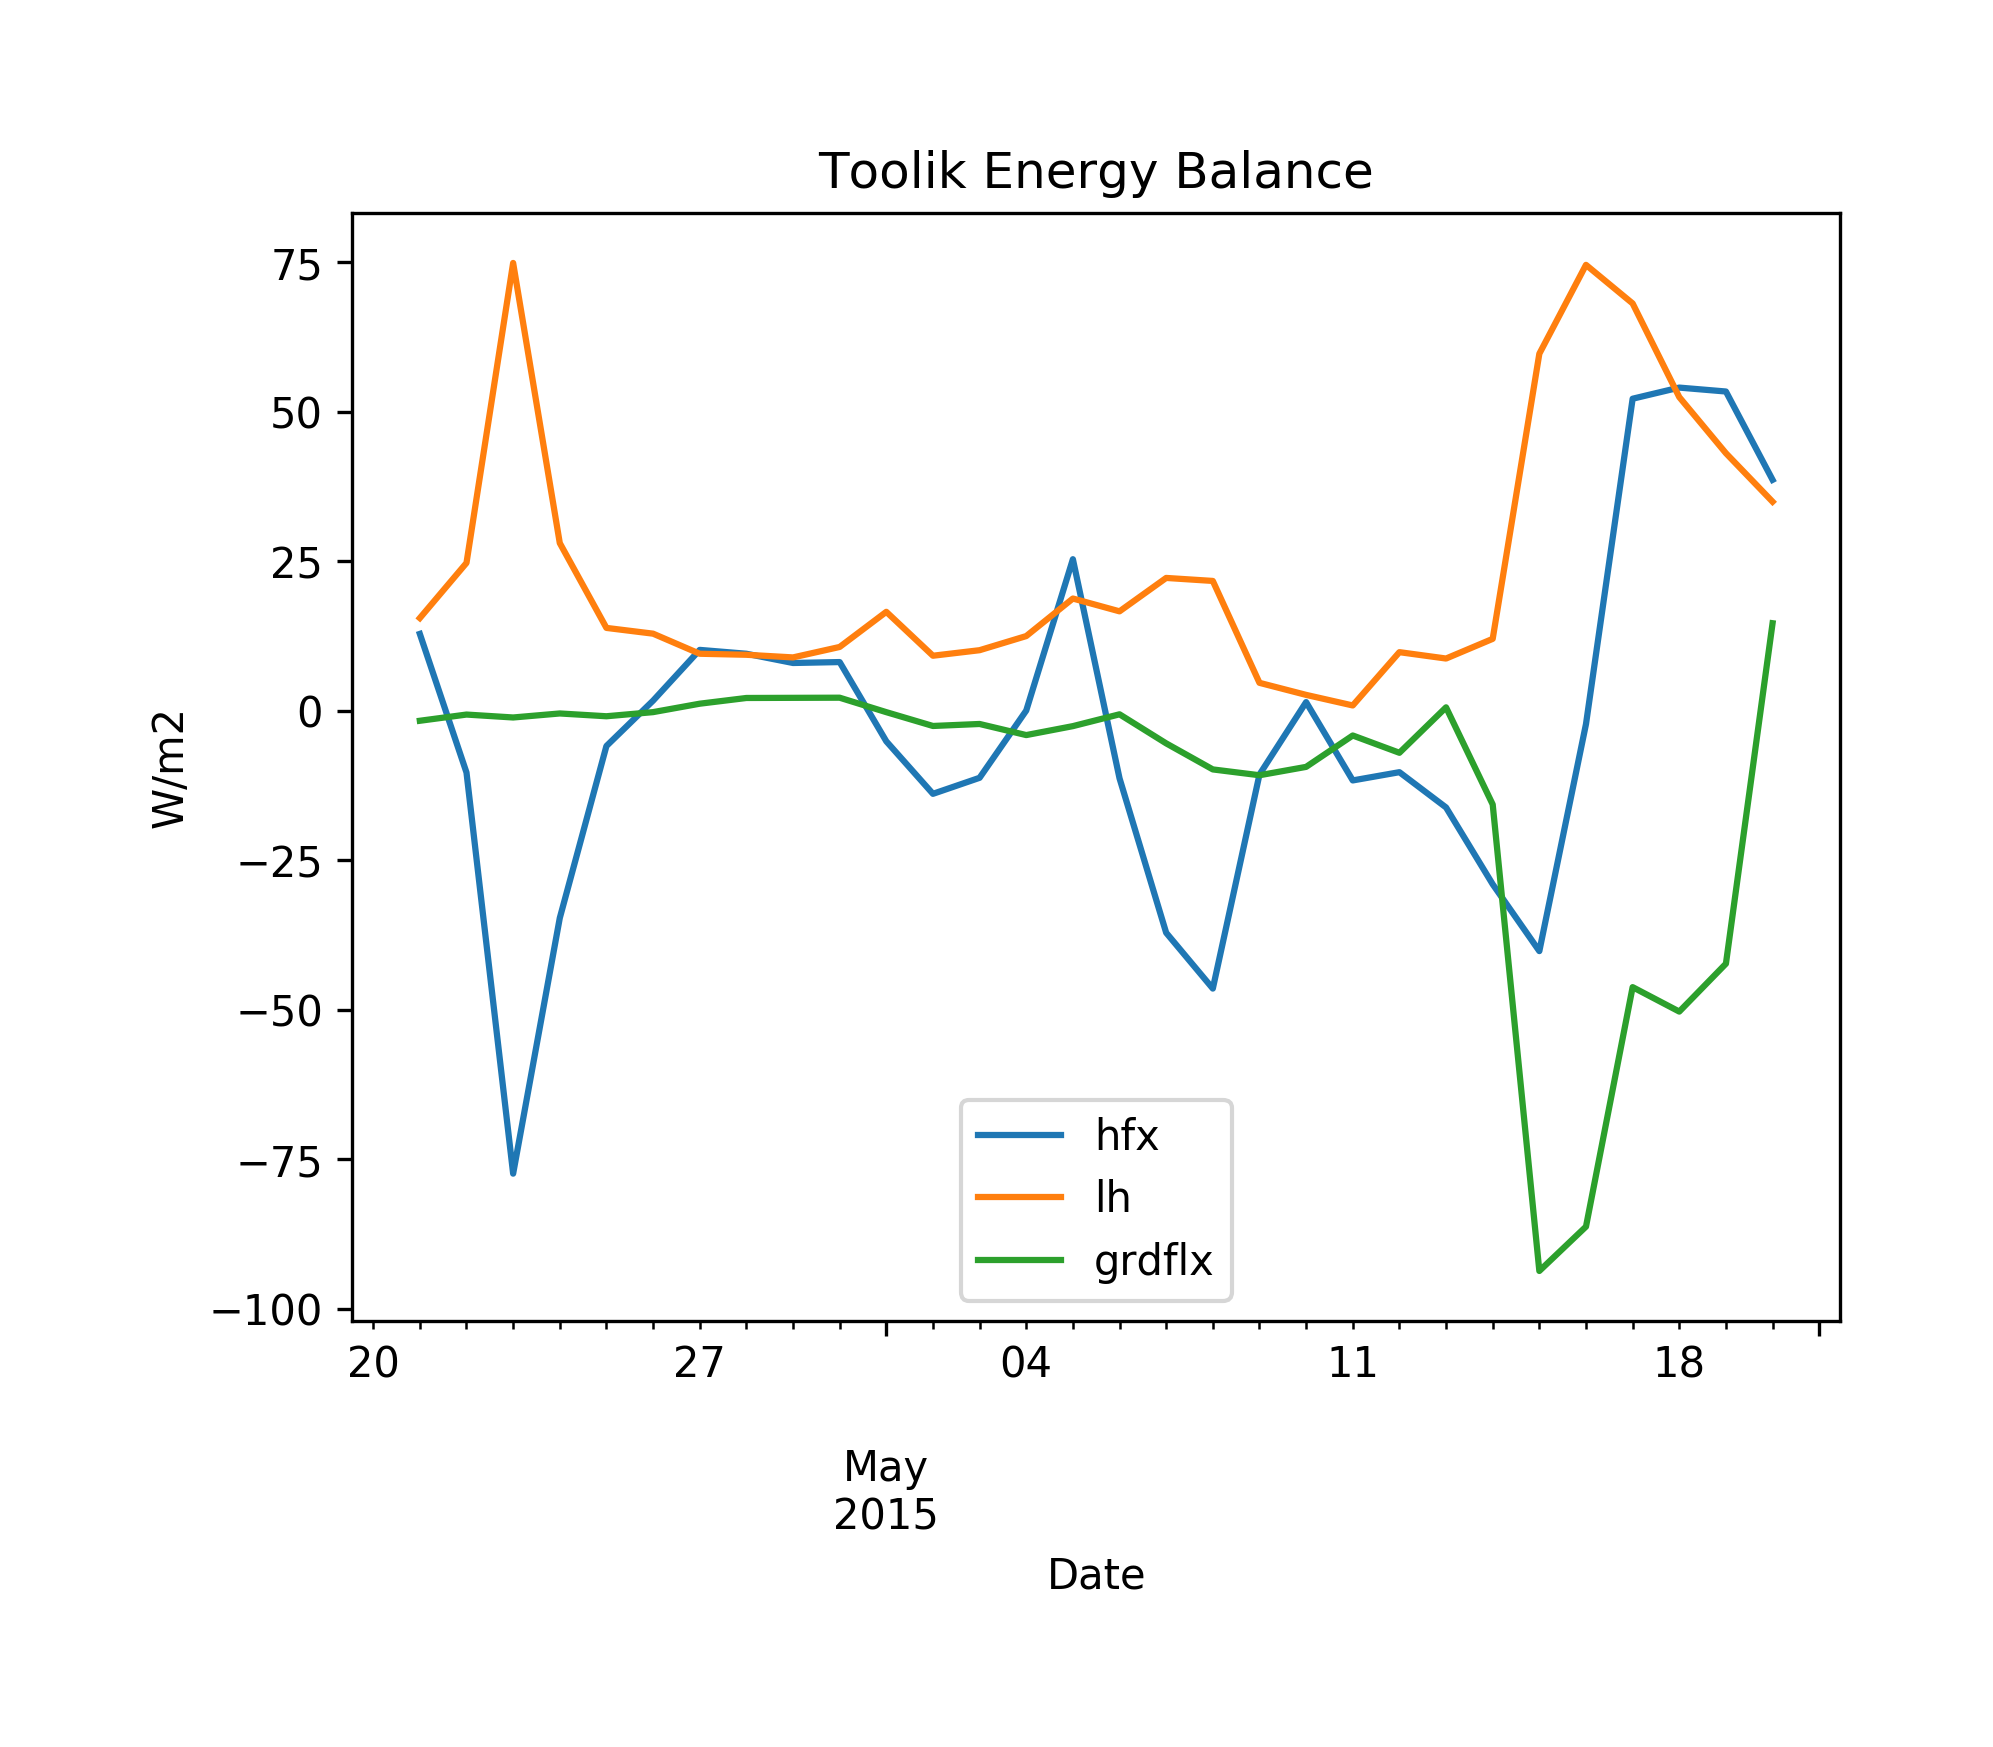
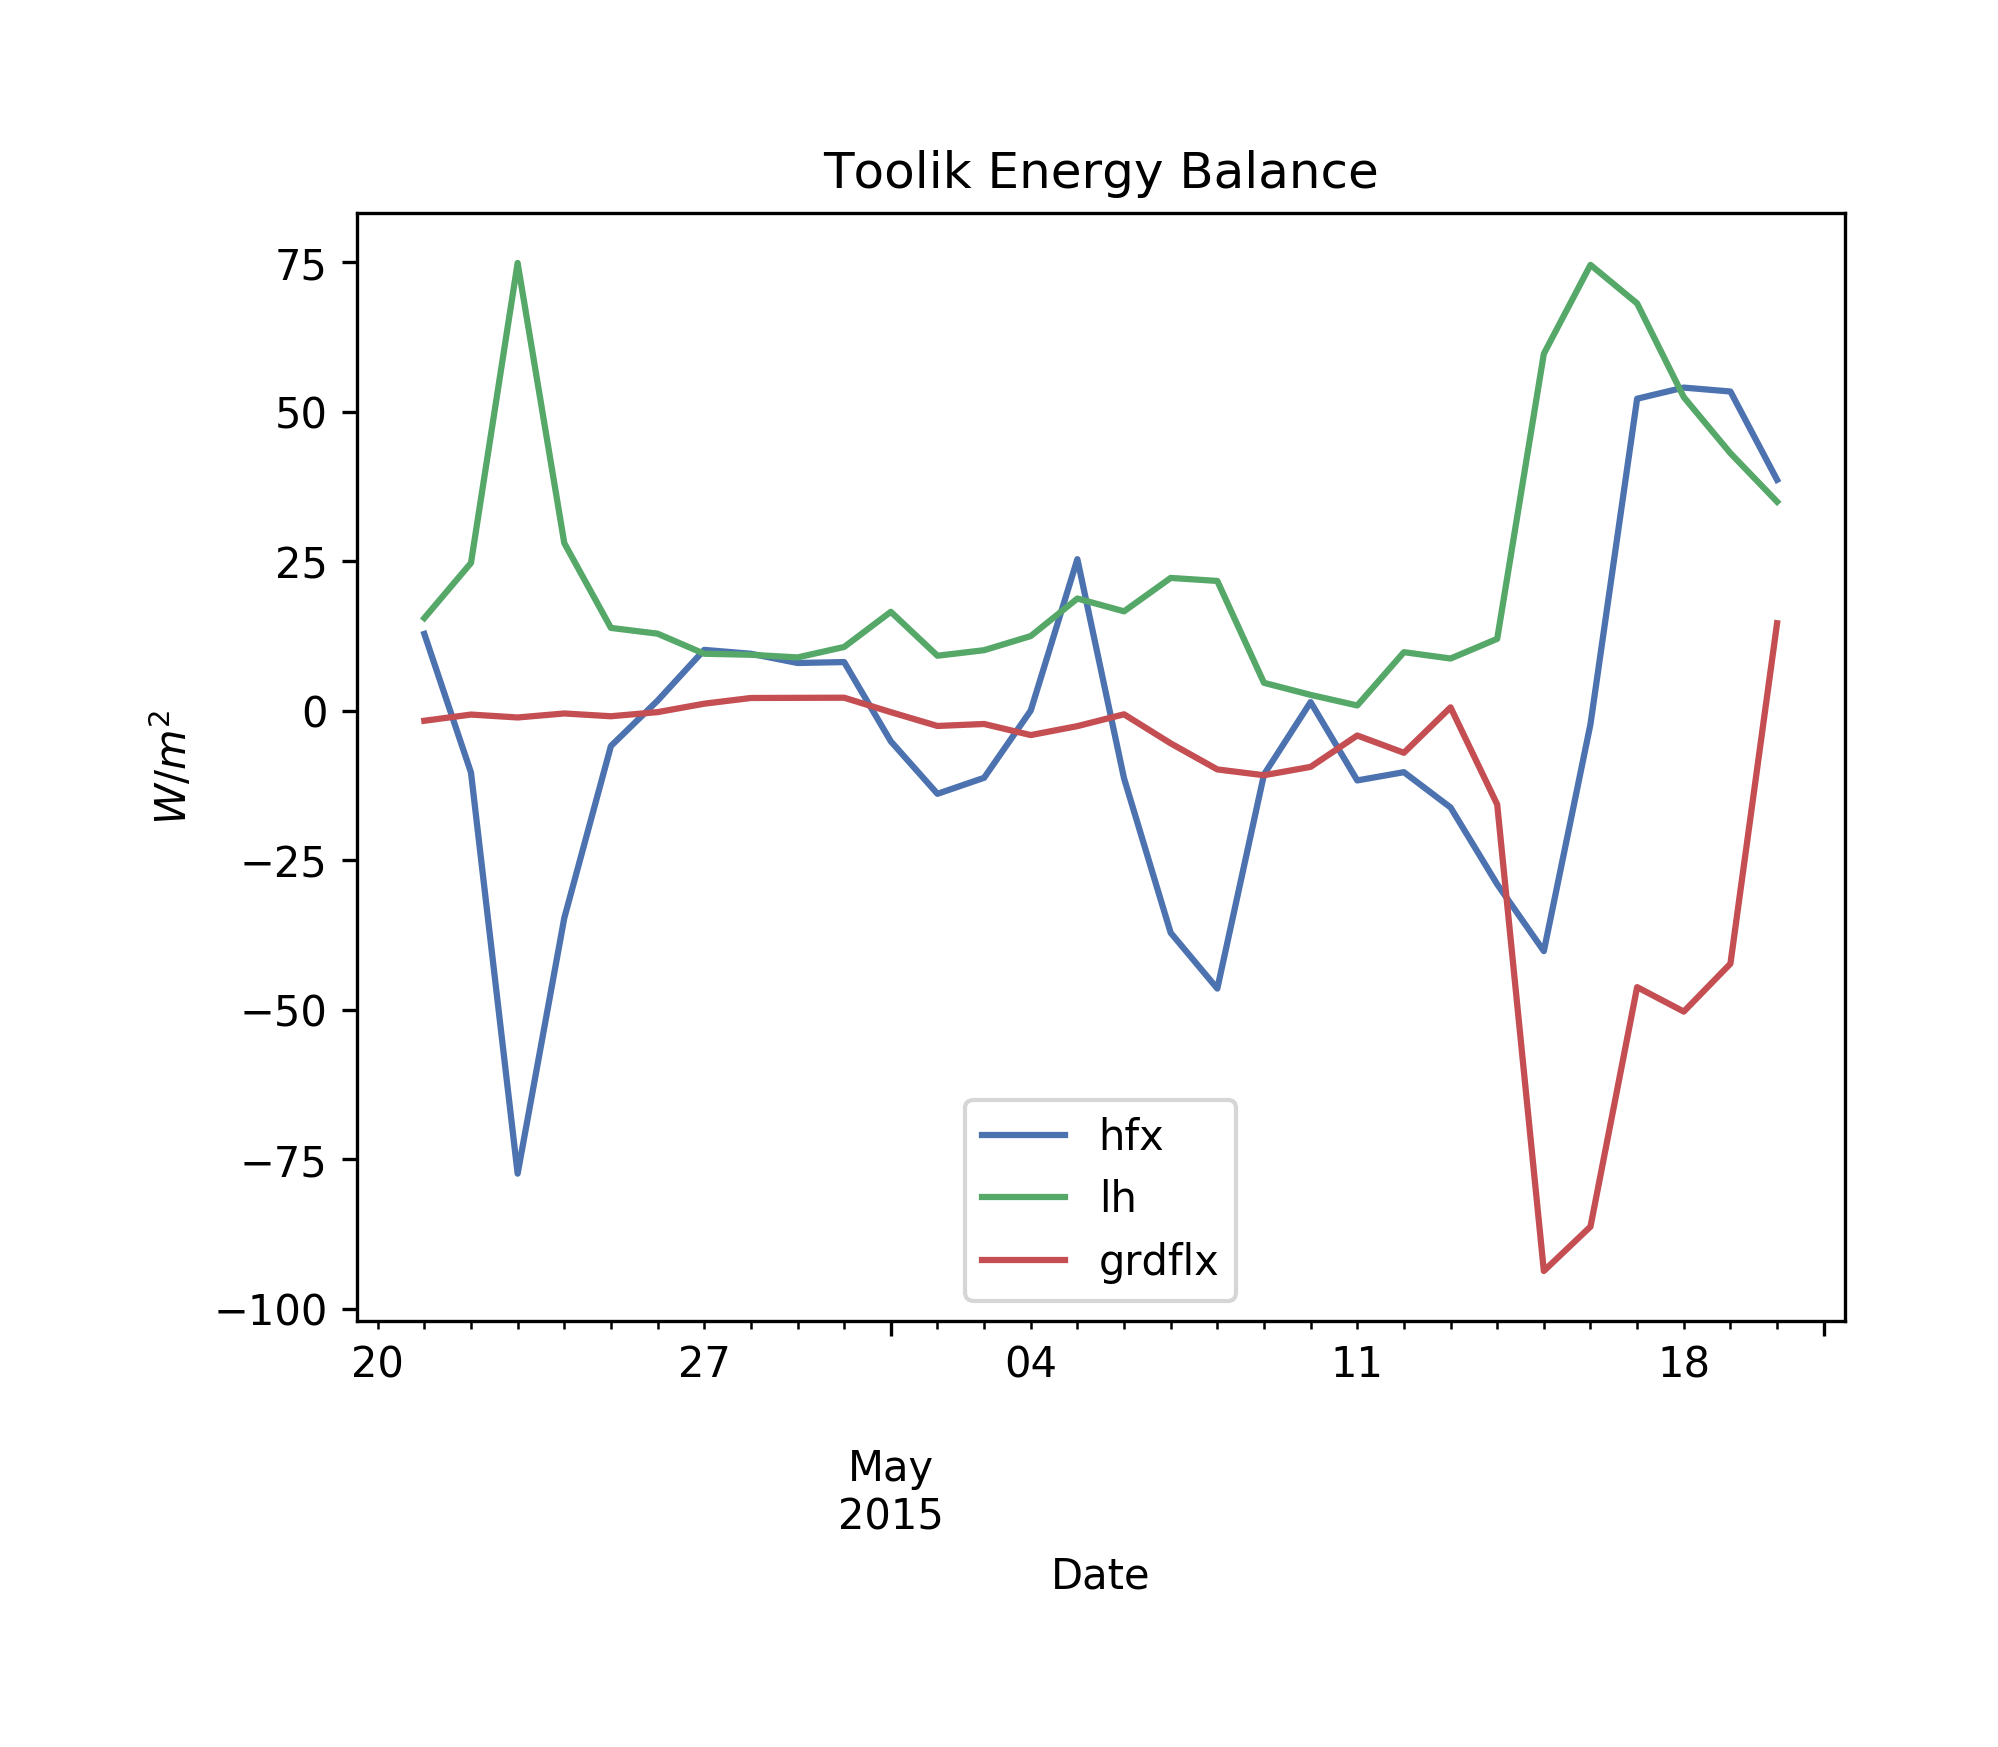
Changed plot style. Changed axis to show superscript

diff --git a/pyallTS.py b/pyallTS.py
@@ -16,6 +16,7 @@ import matplotlib
 matplotlib.use('Agg')
 import matplotlib.pyplot as plt
 import datetime as dt
+plt.style.use('seaborn-deep')
 inpath = ''
 
 ####################
@@ -41,24 +42,30 @@ endTime=pd.to_datetime(df.index[-1])
 # Take the mean over 30 minutes ie 30T
 df=df.resample('1D').mean()
 
-ax1=df[['hfx','lh','grdflx']].plot()
+ax1=df[['hfx','lh','grdflx']].plot() #plots surface sensible heat, latent heat, ground flux
 ax1.set_xlabel("Date")
-ax1.set_ylabel("W/m2")
+ax1.set_ylabel("$W/m^2$")
 ax1.set_title('Toolik Energy Balance')
 plt.savefig('Toolik_1_21_Apr_15.png', dpi=300, bbox_inches='tight', pad_inches=0.5)
 
-ax2=df[['t','tslb(1)','tsk']].plot()
+ax2=df[['t','tslb(1)','tsk']].plot() #plots 2m temperature, top soil layer temp, skin temperature
 ax2.set_xlabel("Date")
-ax2.set_ylabel("oC")
+ax2.set_ylabel("$^oC$")
 ax2.set_title('Toolik Soil and Air Temperature')
 plt.savefig('Toolik_2_21_Apr_15.png', dpi=300, bbox_inches='tight', pad_inches=0.5)
 
 
-ax3=df[['rainc','clw']].plot()
+ax3=df[['rainc','clw']].plot() #plots rainfall from cumulus, total column integrated water vapor and cloud var.
 ax3.set_xlabel("Date")
 ax3.set_ylabel("mm")
 ax3.set_title('Toolik Rain and Cloud Water Content')
 plt.savefig('Toolik_3_21_Apr_15.png', dpi=300, bbox_inches='tight', pad_inches=0.5)
+
+ax4 = df[[]].plot()
+ax4.set_xlabel()
+ax4.set_ylabel()
+ax4.set_title()
+plt.savefig('Toolik_4_21_Apr_15', dpi=300,bbox_inches='tight', pad_inches=0.5)
 
 
 ########## Contents of TS file ########################
